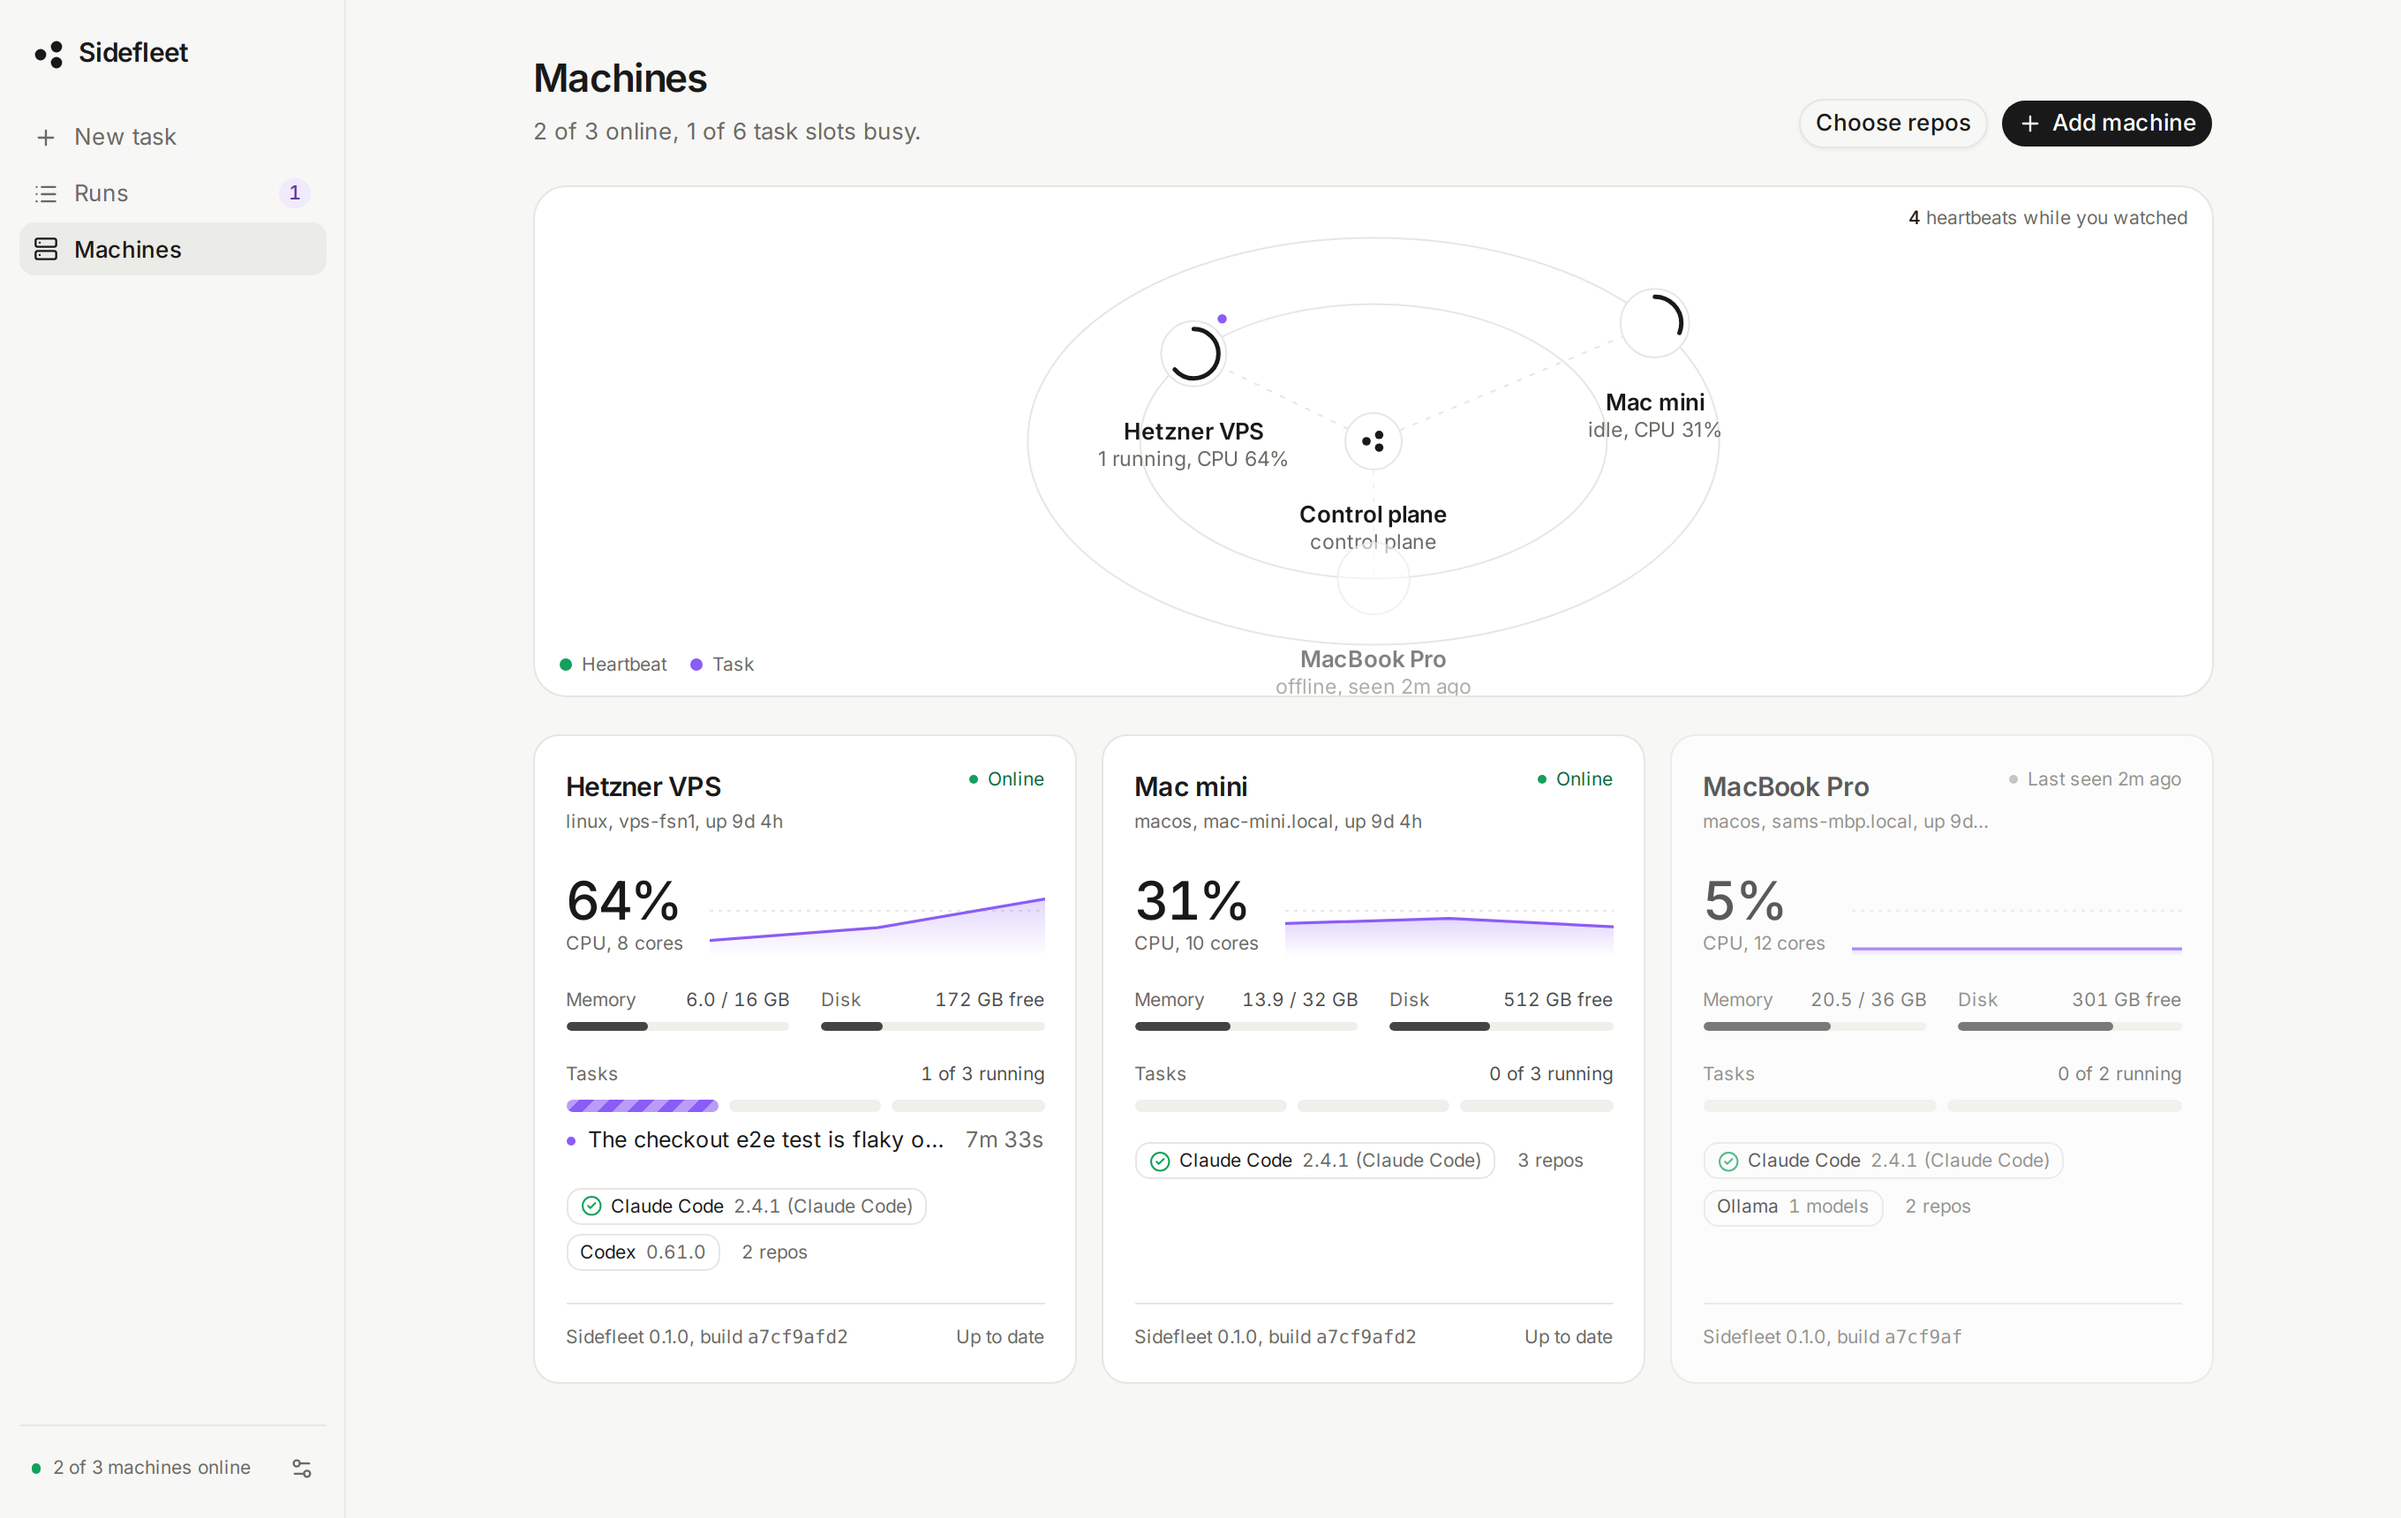
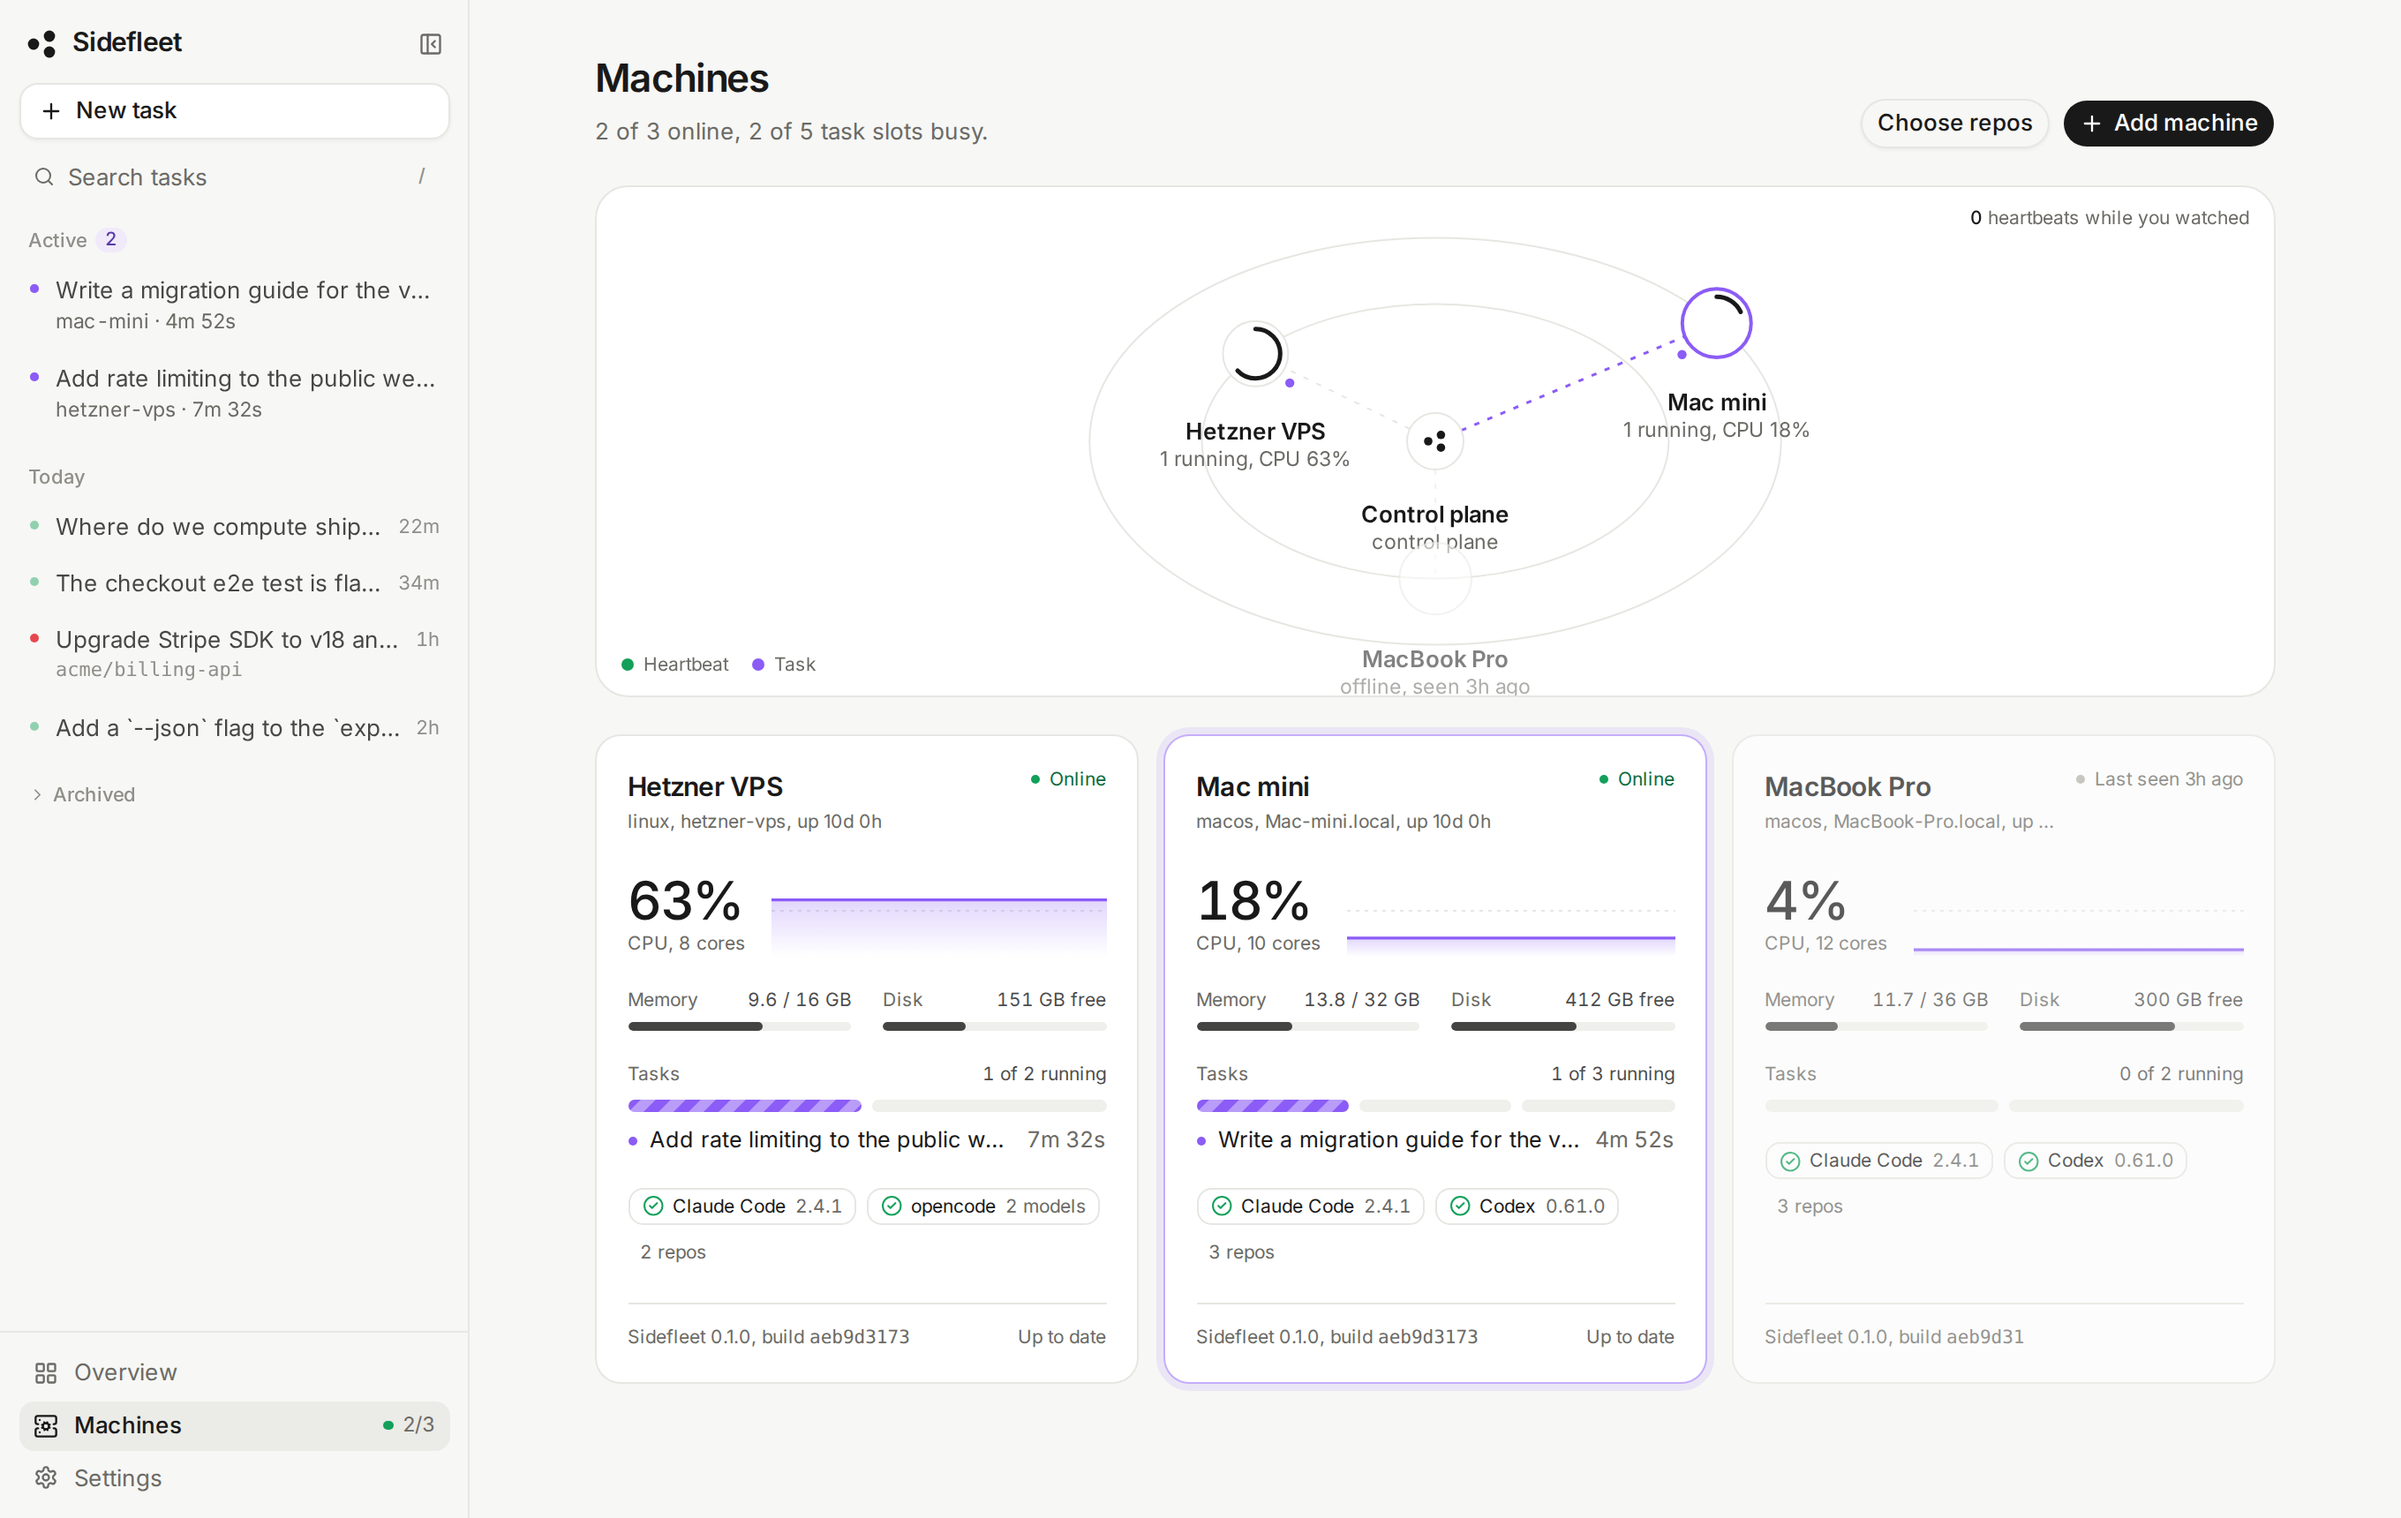
README: new screenshots, including the diff review panel; note active development (#13)

diff --git a/README.md b/README.md
@@ -2,6 +2,10 @@
 
 **Run coding agents on your own machines, from anywhere.**
 
+> [!NOTE]
+> Sidefleet is under active development: expect rough edges, and things may change between
+> versions.
+
 Type a task on a web page, pick an agent, a model and a repo, and a machine you own picks it up:
 your desk Mac, a Mac mini, a VPS. It runs Claude Code, Codex or opencode in its own git worktree
 and streams the agent's narration back live; reply to keep the conversation going. No API keys for
@@ -57,8 +61,9 @@ outbound calls to your control plane. One Rust binary, macOS and Linux.
 - **Secrets stay put**: anything that looks like a credential is redacted on the worker and again
   on the control plane; tokens are stored as SHA-256 digests and never logged.
 
-![The task box and recent runs](docs/screenshots/home.png)
-![A finished thread, ready for a follow-up](docs/screenshots/run-thread.png)
+![The task box, with running and recent tasks in the sidebar](docs/screenshots/home.png)
+![A finished task with its changes, ready for a follow-up](docs/screenshots/run-thread.png)
+![Reviewing a task's diff](docs/screenshots/review.png)
 ![The Machines page](docs/screenshots/machines.png)
 
 ## Install
